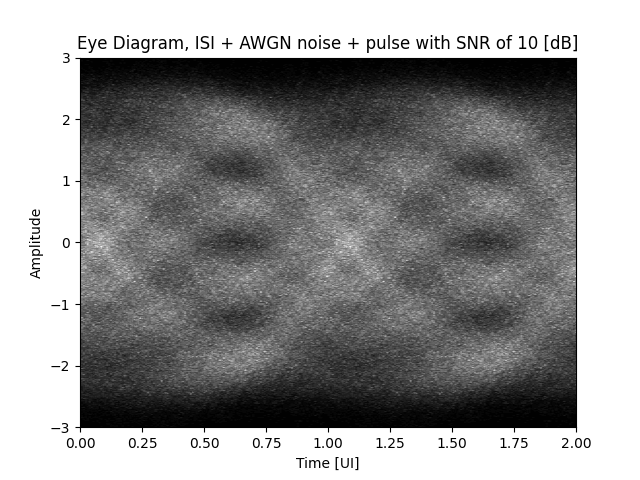
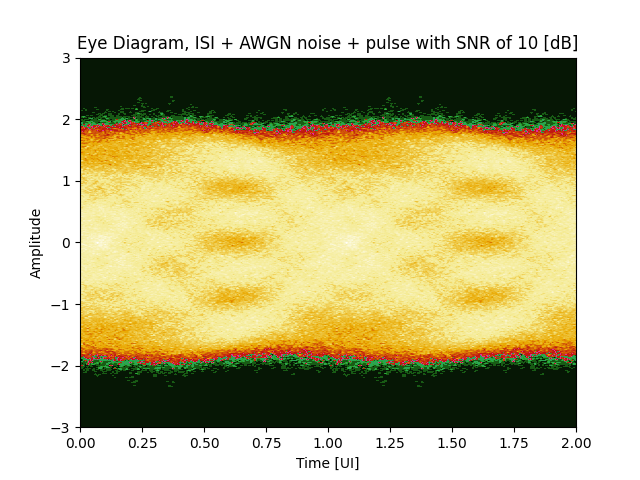
Added a constant for the eye colormap in case we would like to plot the eye diagram

diff --git a/CommDspy/constants.py b/CommDspy/constants.py
@@ -1,5 +1,5 @@
 from enum import Enum
-
+from matplotlib.colors import LinearSegmentedColormap, Normalize
 
 class PrbsEnum(Enum):
     PRBS7  = 7
@@ -19,3 +19,68 @@ class ConstellationEnum(Enum):
 class CodingEnum(Enum):
     UNCODED = 0
     GRAY    = 1
+
+# COLORMAP = LinearSegmentedColormap("",{
+#     'red':   [(  0.0,     0.0,    0.0),
+#               ( 1/20,  50/255, 50/255),
+#               ( 1/18,  16/255, 16/255),
+#               ( 1/16, 236/255, 236/255),
+#               ( 1/14, 214/255, 214/255),
+#               ( 1/13, 191/255, 191/255),
+#               ( 1/12, 230/255, 230/255),
+#               ( 1/11, 230/255, 230/255),
+#               ( 1/10, 233/255, 233/255),
+#               ( 3/10, 233/255, 233/255),
+#               ( 6/10, 244/255, 244/255),
+#               (11/11, 255/255, 255/255)],
+#     'green': [(  0.0,     0.0,     0.0),
+#               ( 1/20, 194/255, 194/255),
+#               ( 1/18,  69/255,  69/255),
+#               ( 1/16,  47/255,  47/255),
+#               ( 1/14,  36/255,  36/255),
+#               ( 1/13,  21/255,  21/255),
+#               ( 1/12, 124/255, 124/255),
+#               ( 1/11, 132/255, 132/255),
+#               ( 1/10, 168/255, 168/255),
+#               ( 3/10, 213/255, 213/255),
+#               ( 6/10, 234/255, 234/255),
+#               (11/11, 255/255, 255/255)],
+#     'blue': [(   0.0,     0.0,     0.0),
+#               ( 1/20,  45/255,  45/255),
+#               ( 1/18, 201/255, 201/255),
+#               ( 1/16, 173/255, 173/255),
+#               ( 1/14, 111/255, 111/255),
+#               ( 1/13,  17/255,  17/255),
+#               ( 1/12,   3/255,   3/255),
+#               ( 1/11,   2/255,   2/255),
+#               ( 1/10,   0/255,   0/255),
+#               ( 3/10,  39/255,  39/255),
+#               ( 6/10, 146/255, 146/255),
+#               (11/11, 255/255, 255/255)]})
+
+EYE_COLORMAP = LinearSegmentedColormap("",{
+    'red':   [(  0.0,     0.0,    0.0),
+              ( 1/30,  50/255, 50/255),
+              ( 1/24,  16/255, 16/255),
+              ( 1/22, 236/255, 236/255),
+              ( 1/18, 191/255, 191/255),
+              ( 2/12, 233/255, 233/255),
+              ( 4/10, 244/255, 244/255),
+              (11/11, 255/255, 255/255)],
+    'green': [(  0.0,     0.0,     0.0),
+              ( 1/30, 194/255, 194/255),
+              ( 1/24,  69/255,  69/255),
+              ( 1/22,  47/255,  47/255),
+              ( 1/18,  21/255,  21/255),
+              ( 2/12, 168/255, 168/255),
+              ( 4/10, 234/255, 234/255),
+              (11/11, 255/255, 255/255)],
+    'blue': [(   0.0,     0.0,     0.0),
+              ( 1/30,  45/255,  45/255),
+              ( 1/24, 201/255, 201/255),
+              ( 1/22, 173/255, 173/255),
+              ( 1/18,  17/255,  17/255),
+              ( 2/12,   0/255,   0/255),
+              ( 4/10, 146/255, 146/255),
+              (11/11, 255/255, 255/255)]})
+

diff --git a/test/example_scripts/example_runs.py b/test/example_scripts/example_runs.py
@@ -68,7 +68,7 @@ def channel_example(pulse_show=False, pulse_eye=False,  awgn_eye=False, awgn_ch_
     if pulse_eye:
         tx_out_rcos = cdsp.channel.pulse_shape(pattern,osr=32, span=8, method='rcos', beta=rolloff)
         plt.figure()
-        eye_d, amp_vec = cdsp.eye_diagram(tx_out_rcos, 32, 128, fs_value=3, quantization=2048, logscale=True)
+        eye_d, amp_vec = cdsp.eye_diagram(tx_out_rcos, 32, 128, fs_value=3, quantization=1024, logscale=True)
         time_ui = np.linspace(0, 2, 256)
         plt.contourf(time_ui, amp_vec, eye_d, levels=1000, cmap='gray')
         plt.xlabel('Time [UI]')
@@ -79,12 +79,12 @@ def channel_example(pulse_show=False, pulse_eye=False,  awgn_eye=False, awgn_ch_
     # ==================================================================================================================
     if awgn_eye:
         rolloff = 0.9
-        snr     = 30
+        snr     = 10
         pattern = tx_example()
         ch_out = cdsp.channel.awgn(pattern, osr=32, span=8, method='rcos', beta=rolloff, snr=snr)
-        eye_d, amp_vec = cdsp.eye_diagram(ch_out, 32, 128, fs_value=3, quantization=2048, logscale=False)
+        eye_d, amp_vec = cdsp.eye_diagram(ch_out, 32, 128, fs_value=3, quantization=1024, logscale=False)
         time_ui = np.linspace(0, 2, 256)
-        plt.contourf(time_ui, amp_vec, eye_d, levels=100, cmap='gray')
+        plt.contourf(time_ui, amp_vec, eye_d, levels=100,cmap=cdsp.EYE_COLORMAP)
         plt.title(f'Eye Diagram, AWGN noise + pulse with SNR of {snr} [dB]')
         plt.xlabel('Time [UI]')
         plt.ylabel('Amplitude')
@@ -95,13 +95,13 @@ def channel_example(pulse_show=False, pulse_eye=False,  awgn_eye=False, awgn_ch_
     if awgn_ch_eye:
         rolloff = 0.9
         snr = 10
-        b = [0.7]
+        b = [0.5]
         a = [1, -0.2]
         pattern = tx_example()
         ch_out = cdsp.channel.awgn_channel(pattern, b, a, osr=32, span=8, method='rcos', beta=rolloff, snr=snr)
         eye_d, amp_vec = cdsp.eye_diagram(ch_out, 32, 128, fs_value=3, quantization=1024, logscale=False)
         time_ui = np.linspace(0, 2, 256)
-        plt.contourf(time_ui, amp_vec, eye_d, levels=100, cmap='gray')
+        plt.contourf(time_ui, amp_vec, eye_d, levels=100, cmap=cdsp.EYE_COLORMAP)
         plt.title(f'Eye Diagram, ISI + AWGN noise + pulse with SNR of {snr} [dB]')
         plt.xlabel('Time [UI]')
         plt.ylabel('Amplitude')
@@ -109,4 +109,4 @@ def channel_example(pulse_show=False, pulse_eye=False,  awgn_eye=False, awgn_ch_
 
 if __name__ == '__main__':
     # tx_example()
-    channel_example(awgn_ch_eye=True)
+    channel_example(awgn_ch_eye=False)

diff --git a/CommDspy/__init__.py b/CommDspy/__init__.py
@@ -1,7 +1,7 @@
 from CommDspy import channel
 from CommDspy import tx
 from CommDspy import rx
-from CommDspy.constants import PrbsEnum, ConstellationEnum, CodingEnum
+from CommDspy.constants import PrbsEnum, ConstellationEnum, CodingEnum, EYE_COLORMAP
 from CommDspy.auxiliary import get_polynomial, get_levels, power, rms, buffer
 from CommDspy.channel_estimation import channel_estimation_prbs
 from CommDspy.equalization_estimation import equalization_estimation_prbs

diff --git a/README.md b/README.md
@@ -144,7 +144,7 @@ Results:
 
 ![channel reconstruction](./pictures/channel_reconstruction.png)
 
-**Figure 4** - channel reconstruction
+**Figure 5** - channel reconstruction
 ```Python
 # Sinc interpolation MSE          = -17.68 [dB]
 # Lagrange interpolation MSE      = -23.59 [dB]
@@ -356,7 +356,7 @@ Function computed the eye diagram of a signal. Function is inputted with:
 * quantization=256 - resolution of the amplitudes in the eye diagram is computed by: `2*fs_value / qualtization`
 * logscale=False - If True, returns the eye diagram with logscale values
 
-## 5. Enumeration classes
+## 5. Mics
 ### 5.1.PrbsEnum 
 Enumeration for the PRBS type used
   * PRBS7
@@ -377,6 +377,8 @@ enumeration of the different coding types
   * UNCODED
   * GRAY
   
+### EYE_COLORMAP
+A maplotlib colormap object to plot the eye diagrams
 # To update the version:
  1. please run the following command from the respective directory:
         
